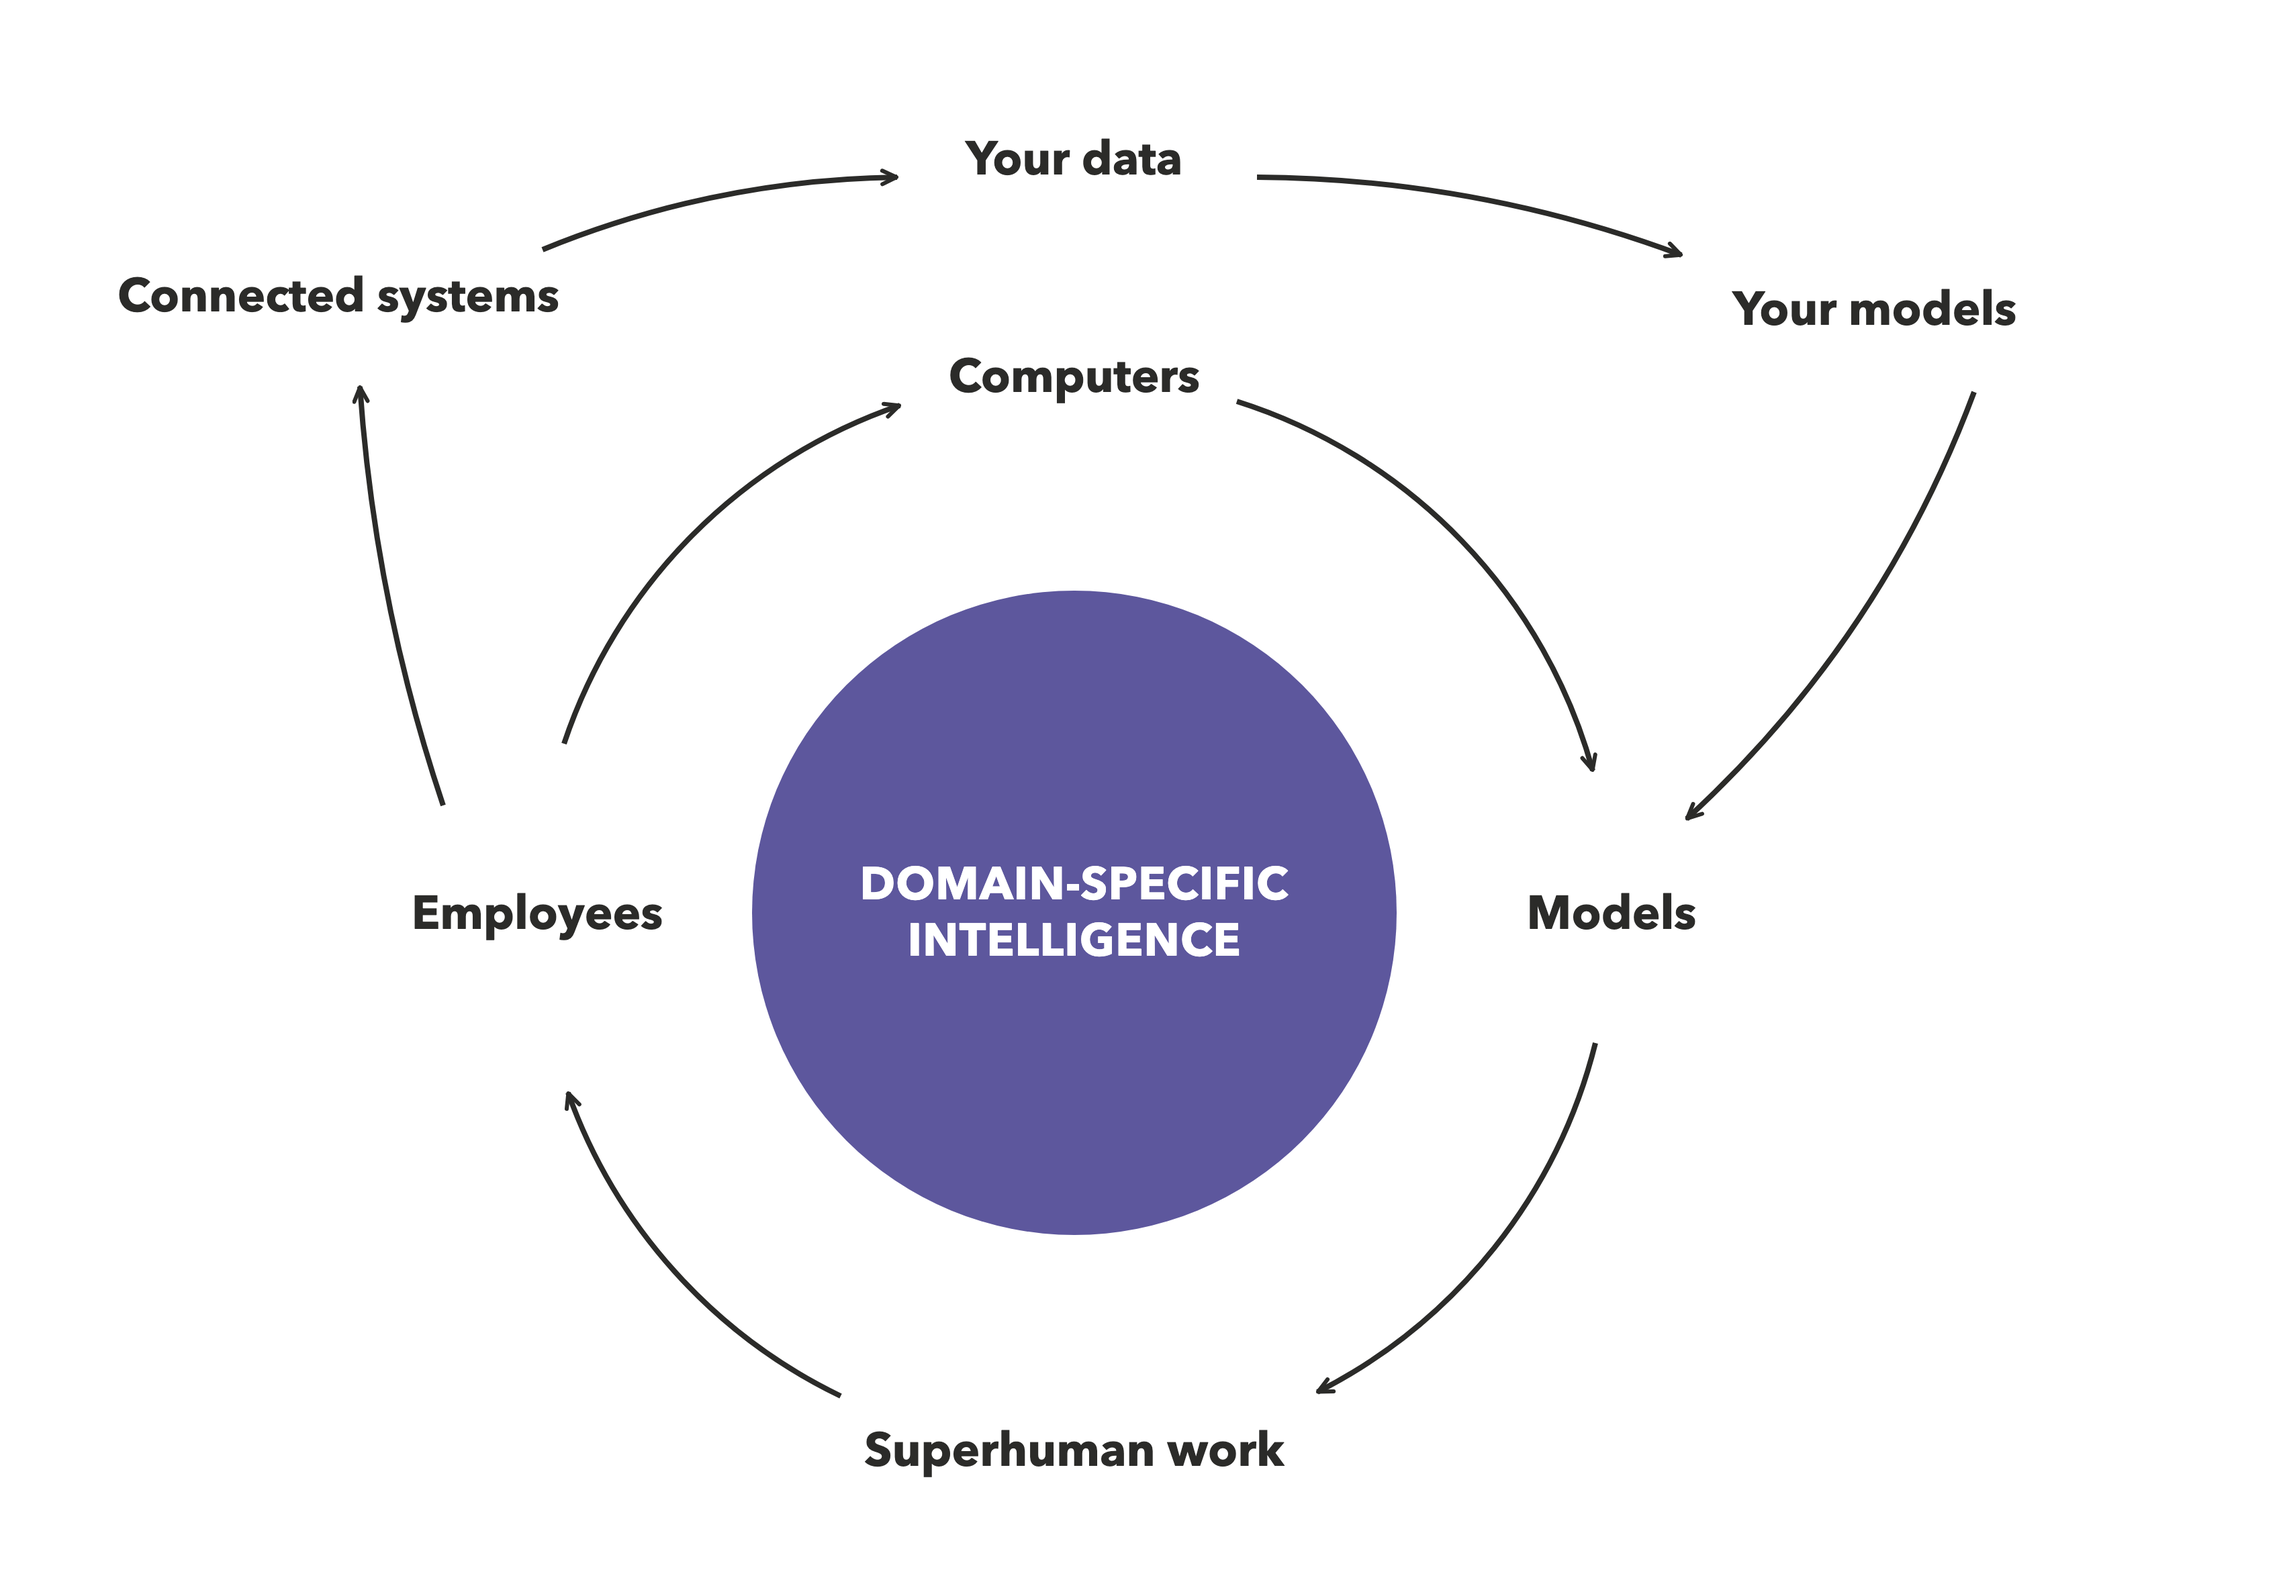
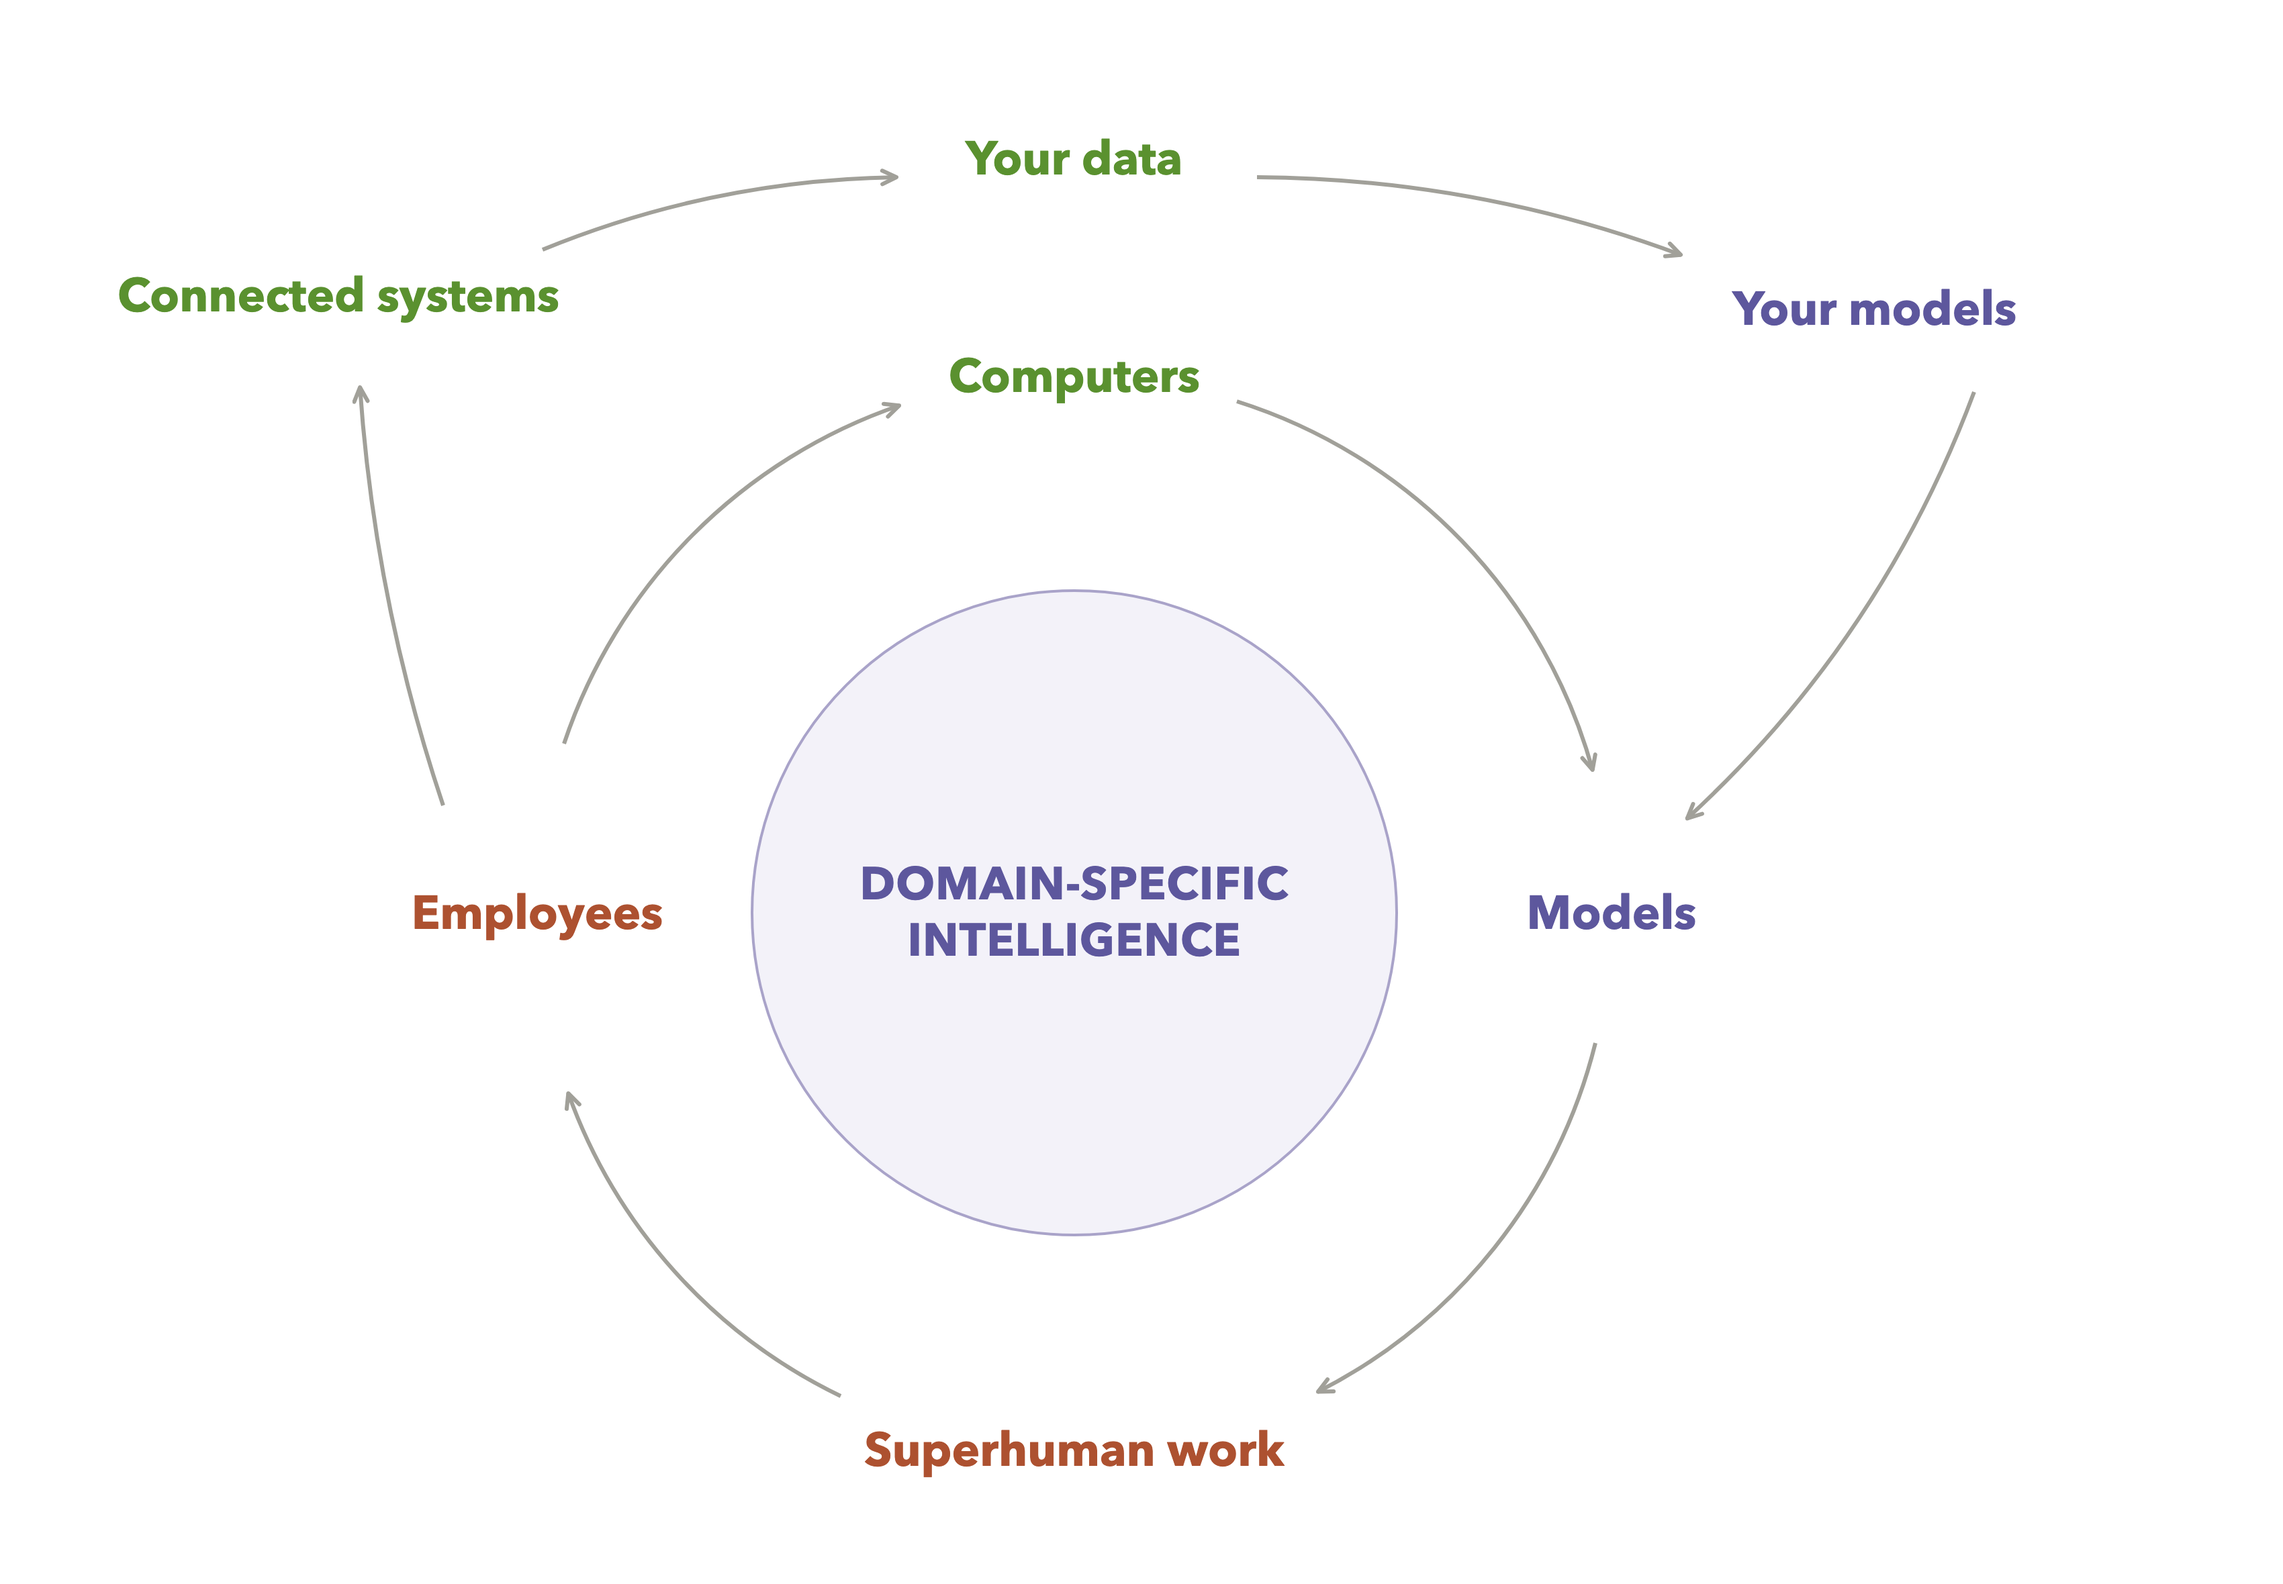
docs: write the figure style down, and make the flywheel obey it
Seven figures shared a visual language that lived only in figs.py and in
whichever figure you happened to read first. docs/STYLE.md is that language
written down: the six colours and what each one MEANS, the type scale, the four
shapes and when each applies, line weights and what dashed signifies, the layout
rules, and how to get a PNG out. If a new figure needs something not in that
file, it goes in that file first.

Writing it down immediately caught that the flywheel was the one figure breaking
it. It drew near-black 4px rims where the system uses warm grey, and a solid
purple disc where every other shape is a pale fill with a mid-tone border — ink
on tinted paper, never a block of colour. Both are fixed, and the flywheel now
sits in the same family as the rest of the set.

Its colours also carry the same meaning they carry everywhere else, which they
did not before: green is what you already own (computers, connected systems,
your data), purple is the intelligence layer (models, your models, the hub), and
coral is the human edge (employees, and the work itself). A reader who has seen
the fleet figure can now guess what a green word means on the wheel.

Rim weight drops 4 to 3. Only the flywheel uses it, so no other figure moves.

Also: domain-specific intelligence gets its own heading rather than sitting as
two unmarked paragraphs between the summary and the architecture. It is the
reason the rest of the page exists, and it was reading as preamble.

diff --git a/docs/build_figures.py b/docs/build_figures.py
@@ -2,6 +2,7 @@
 import os
 
 from figs import (  # noqa
+    ARROW,
     CORAL_TEXT,
     CORE_FS,
     GREEN_TEXT,
@@ -237,16 +238,18 @@ f.write(f"{OUT}/train-architecture.svg")
 #   the second loop: connectors -> domain-specific data -> domain-specific models
 f = Fig(1700, 1180)
 CX, CY, R = 800, 680, 400
-INK = LABEL_TEXT
+INK = ARROW   # grey, never black — docs/STYLE.md section 1
 
 # Nouns, not quantities. The reference says Sellers, Selection, Traffic — never
 # "more sellers" — because a flywheel already means "more of this drives more of
 # that", and repeating it in every label is the diagram explaining its own form.
+# Colour carries the same meaning it carries everywhere else in the set: green is
+# what you already own, purple is the intelligence layer, coral is the human edge.
 f.wheel(CX, CY, R, [
-    ("Models", LABEL_TEXT),
-    ("Superhuman work", LABEL_TEXT),
-    ("Employees", LABEL_TEXT),
-    ("Computers", LABEL_TEXT),
+    ("Models", PURPLE_TEXT),
+    ("Superhuman work", CORAL_TEXT),
+    ("Employees", CORAL_TEXT),
+    ("Computers", GREEN_TEXT),
 ], hub_r=240, hub_lines=("DOMAIN-SPECIFIC", "INTELLIGENCE"), fs=CORE_FS, start=0,
    arc=INK)
 
@@ -261,9 +264,9 @@ f.wheel(CX, CY, R, [
 # arrows with air between them rather than from a shared dot: a junction reads as
 # a knot at this line weight. And the whole loop is held a clear band away from
 # the rim, because two curves running close together read as one thick curve.
-f.block(252, 220, ("Connected systems",), LABEL_TEXT, CORE_FS)
-f.block(800, 118, ("Your data",), LABEL_TEXT, CORE_FS)
-f.block(1396, 230, ("Your models",), LABEL_TEXT, CORE_FS)
+f.block(252, 220, ("Connected systems",), GREEN_TEXT, CORE_FS)
+f.block(800, 118, ("Your data",), GREEN_TEXT, CORE_FS)
+f.block(1396, 230, ("Your models",), PURPLE_TEXT, CORE_FS)
 
 f.bow(330, 600, 268, 288, lift=-20, colour=INK, width=RIM)
 f.bow(404, 186, 668, 132, lift=-26, colour=INK, width=RIM)

diff --git a/docs/figs.py b/docs/figs.py
@@ -17,7 +17,7 @@ ARROW, LABEL_TEXT = "#a1a099", "#2b2b29"
 H = 66            # every node is this tall
 BORDER = 2
 STROKE = 2
-RIM = 4           # the flywheel rim — heavy enough to read as one wheel, not six links
+RIM = 3           # the flywheel rim — heavier than an edge so a ring reads as one wheel
 CORE_FS = 35      # a station on the driving loop — the only text at this size
 SAT_FS = 21       # a station on a feeder loop, subordinate to the core by size and colour
 NODE_FS = 25      # node label
@@ -168,7 +168,7 @@ class Fig:
         return placed
 
     def wheel(self, cx, cy, r, stations, hub_r=0, hub_lines=(), hub_fill=None, fs=None,
-              start=-90, arc=None):
+              start=-90, arc=None, hub_line=None, hub_text=None):
         """A flywheel drawn the way the ones people remember are drawn.
 
         The reference (Amazon's) works because of three things this deliberately
@@ -219,14 +219,17 @@ class Fig:
             self._saw(cx + r, cy + r)
 
         if hub_r:
+            # Tinted paper with ink on it, like every other shape in the system —
+            # a solid disc is the one thing here that would read as a block of colour.
             self.parts.append(
                 f'<circle cx="{cx:.0f}" cy="{cy:.0f}" r="{hub_r}" '
-                f'fill="{hub_fill or PURPLE_TEXT}"/>')
+                f'fill="{hub_fill or PURPLE_FILL}" stroke="{hub_line or PURPLE_LINE}" '
+                f'stroke-width="{BORDER}"/>')
             top = cy - (len(hub_lines) - 1) * 21 + 11
             for i, ln in enumerate(hub_lines):
                 self.parts.append(
                     f'<text x="{cx:.0f}" y="{top + i * 42:.0f}" text-anchor="middle" '
-                    f'fill="#fff" font-size="34" font-weight="700" '
+                    f'fill="{hub_text or PURPLE_TEXT}" font-size="34" font-weight="700" '
                     f'letter-spacing="0.5">{ln}</text>')
         return placed
 

diff --git a/docs/STYLE.md b/docs/STYLE.md
@@ -1,0 +1,106 @@
+# The figure style
+
+Every figure in this repo is drawn by `figs.py` and assembled by `build_figures.py`. There are no
+hand-made images and no diagramming tool, which is the point: a figure is code, so it can be
+reviewed, diffed, and corrected when the thing it describes changes.
+
+This file is the style. If a new figure needs something not written here, add it here first.
+
+---
+
+## 1. Colour
+
+Six values, sampled from the PNGs in Anthropic's engineering posts rather than guessed. Three
+families, each a pale fill, a mid-tone line and a dark text of the same hue — so a shape reads as
+tinted paper with ink on it, never as a block of colour.
+
+| | fill | line | text | means |
+|---|---|---|---|---|
+| **green** | `#eff5ea` | `#b8d7a6` | `#5a912f` | things you already own — machines, your data |
+| **purple** | `#f3f2f9` | `#a9a3c9` | `#5d579d` | the intelligence layer — the grid, the trainer, models |
+| **coral** | `#fbf0ed` | `#f0c5b6` | `#ad5130` | the human edges — what goes in, what comes out, people |
+
+| | value | used for |
+|---|---|---|
+| **arrow** | `#a1a099` | every line and arrowhead. A warm grey, never black |
+| **text** | `#2b2b29` | edge labels and anything not inside a shape |
+| **page** | `#ffffff` | the background, always, on every figure |
+
+**The colours carry meaning, not decoration.** A reader who has seen two figures should be able to
+guess what a green box is in the third. Never introduce a fourth hue to distinguish two things that
+the existing three already separate; if two things need separating and share a family, separate them
+by shape or position instead.
+
+**Arrows are grey, not black.** This is the single easiest rule to break and the one that costs the
+most. Black lines pull ahead of the shapes and the figure starts to read as a diagram of arrows.
+The grey sits behind the labels and lets them lead.
+
+## 2. Type
+
+```
+Avenir Next, Nunito, Segoe UI, Helvetica, Arial, sans-serif
+```
+
+| role | size | weight |
+|---|---|---|
+| node label, inside a shape | 25 | 600 |
+| edge label, on or beside a line | 22 | 400 |
+| flywheel station | 35 | 700 |
+| flywheel feeder station | 21 | 700 |
+
+Node labels are **short**: one or two words, three at the outside. This is the rule that does most
+of the work in the whole system — anything longer than a label goes on the arrow, where there is
+room for it. A node whose text has to wrap is a node that is doing two jobs.
+
+## 3. Shape
+
+| shape | what it is |
+|---|---|
+| **box**, square corners | a stage that does something — a machine, a model, a step |
+| **stadium**, fully rounded ends | a terminal — what enters the system or leaves it |
+| **band**, a box stretched along an axis | a span of time; its width means hours |
+| **bare text**, no shape at all | a station on a flywheel |
+
+Every box, stadium and band is **66px tall** with a **2px** border. One height for everything is
+what makes a row of unlike things read as one row.
+
+A flywheel is the exception that proves it: its stations carry no shape at all, because a box around
+each one turns a wheel into six separate objects and the circle stops being the subject.
+
+## 4. Line
+
+| | width | meaning |
+|---|---|---|
+| edge | 2 | the ordinary flow — a thing moves from here to there |
+| dashed edge | 2 | a return, a repeat, or many parallel copies of one thing |
+| rim | 3 | the closed loop of a flywheel, heavier so a ring reads as one wheel |
+
+Arrowheads are open chevrons, never filled triangles, and they come in one size per line width. Each
+one is drawn in its line's own colour — an SVG marker carries its own fill, so a coloured line with
+the shared grey head ends in a grey tip.
+
+**Curve vocabulary.** A straight line where nothing is in the way. A single bend where two things sit
+at different heights. An arc where several lines leave one point and must stay apart — the curve
+alone separates them, and no two lines in one figure should cross if a bend would avoid it.
+
+## 5. Layout
+
+- **The drawing decides the page.** A figure computes its own extent and the canvas grows to fit it;
+  no figure is fitted into a fixed frame.
+- **A gap is as wide as the label that crosses it.** Edge labels are never placed over a shape, and
+  the space between two nodes grows to make room for the words on the arrow between them.
+- **Arcs stop clear of what they touch,** by that node's own width, so a wide label never has a line
+  running underneath it.
+- **Nothing is added to help the reader.** No legend, no key, no colour scale, no title inside the
+  frame. The README's prose is the caption. A legend is a sign that the drawing has not done its job.
+
+## 6. Output
+
+`python3 docs/build_figures.py` writes every `.svg`. The READMEs embed the `.png` beside it, and
+**nothing regenerates those automatically** — render at **2× device scale** on the SVG's own viewBox
+and overwrite the PNG by hand. A figure changed and not re-rendered keeps showing the old picture
+with nothing failing, which has happened.
+
+Every figure carries an `alt` describing what it shows in the order a reader would read it. These
+are long on purpose; the figure is often the clearest statement of an idea on the page, and a reader
+who cannot see it should get the idea rather than its title.

diff --git a/train/README.md b/train/README.md
@@ -5,8 +5,10 @@ weights never leave your network. About 8,900 lines of Python across 38 files, o
 torch side and mlx-lm on the Apple side, and one command finishes a complete training run on a
 laptop CPU in about six minutes.
 
-First, why train anything at all. The models you can rent are general and they are very good. They
-also know nothing about you — not your codebase, not last quarter's tickets, not the way your team
+## Domain-specific intelligence
+
+Why train anything at all. The models you can rent are general and they are very good. They also
+know nothing about you — not your codebase, not last quarter's tickets, not the way your team
 actually writes a reply. Waiting for a bigger general model does not close that gap, because the
 information was never on the internet to begin with. It is sitting in your systems.
 
@@ -15,6 +17,8 @@ how your work actually goes. It is worse than the frontier at everything and bet
 frontier at your thing, which is the trade you want, because most of what your team does all day is
 your thing. The weights are yours, so nobody deprecates them, reprices them or swaps them out from
 under you. And the data they learned from never left the building.
+
+## How the training plane works
 
 Here is the whole idea. Reinforcement learning is roughly 75% sampling; sampling is inference;
 inference is what a grid already does. So the expensive part of training is work your fleet is
